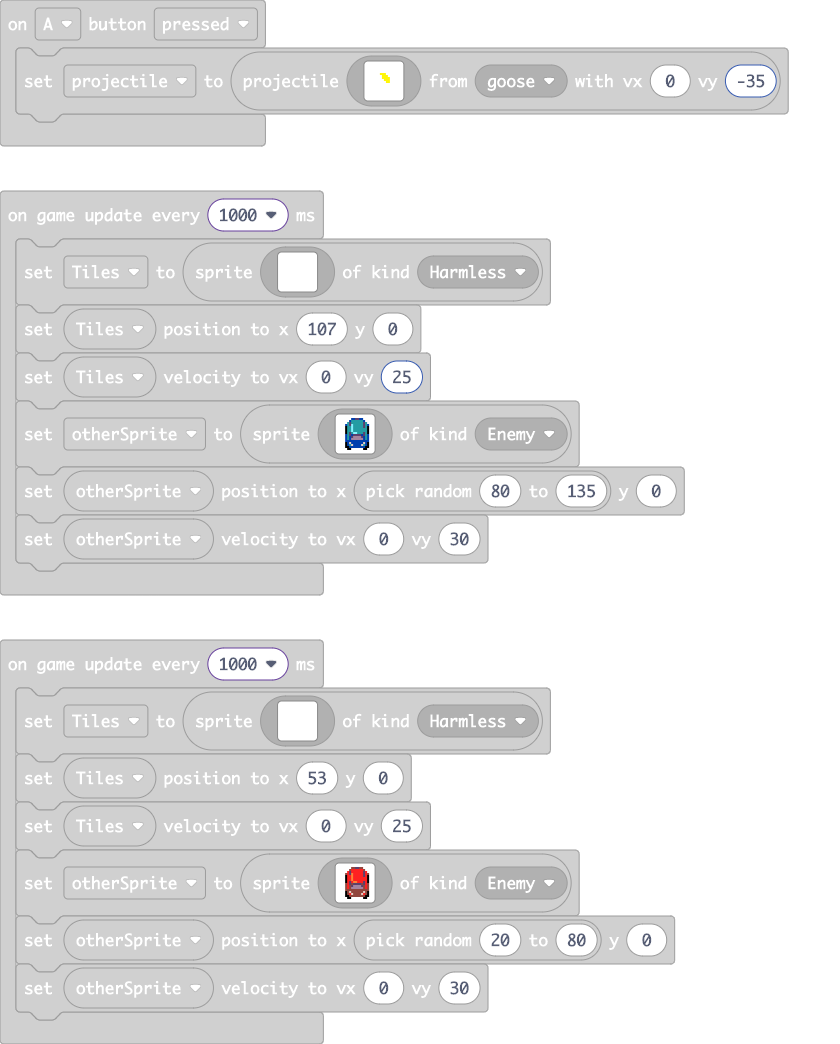
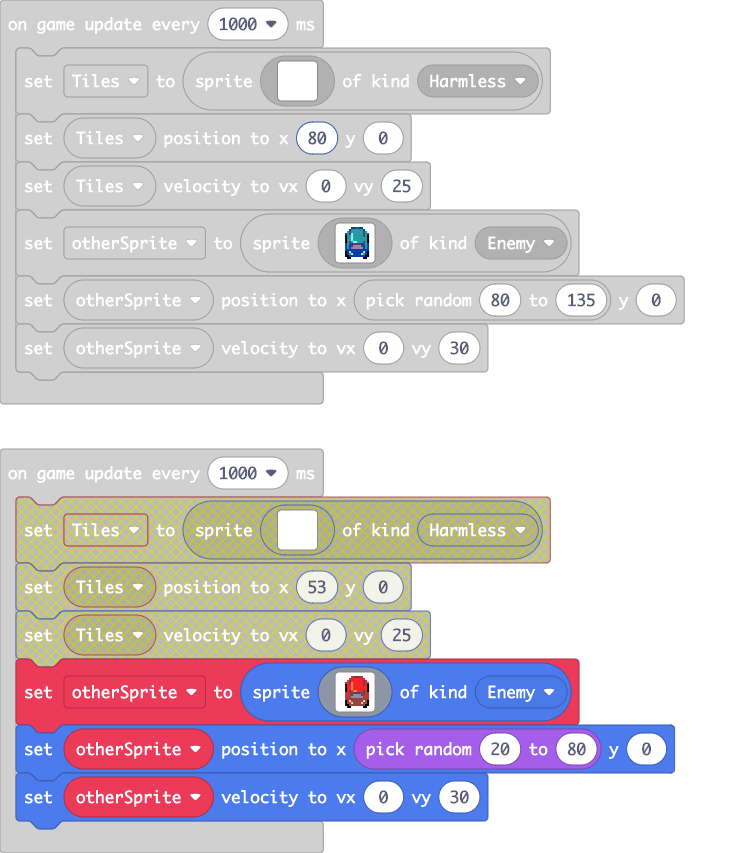
Sudhish - Edit 7

diff --git a/main.ts b/main.ts
@@ -347,7 +347,7 @@ game.onUpdateInterval(1000, function () {
         . . . . 1 1 1 1 1 1 1 1 . . . . 
         . . . . 1 1 1 1 1 1 1 1 . . . . 
         `, SpriteKind.Harmless)
-    Tiles.setPosition(107, 0)
+    Tiles.setPosition(80, 0)
     Tiles.setVelocity(0, 25)
     otherSprite = sprites.create(img`
         . . . . . . 8 8 c c 8 8 . . . . 
@@ -371,26 +371,6 @@ game.onUpdateInterval(1000, function () {
     otherSprite.setVelocity(0, 30)
 })
 game.onUpdateInterval(1000, function () {
-    Tiles = sprites.create(img`
-        . . . . 1 1 1 1 1 1 1 1 . . . . 
-        . . . . 1 1 1 1 1 1 1 1 . . . . 
-        . . . . 1 1 1 1 1 1 1 1 . . . . 
-        . . . . 1 1 1 1 1 1 1 1 . . . . 
-        . . . . 1 1 1 1 1 1 1 1 . . . . 
-        . . . . 1 1 1 1 1 1 1 1 . . . . 
-        . . . . 1 1 1 1 1 1 1 1 . . . . 
-        . . . . 1 1 1 1 1 1 1 1 . . . . 
-        . . . . 1 1 1 1 1 1 1 1 . . . . 
-        . . . . 1 1 1 1 1 1 1 1 . . . . 
-        . . . . 1 1 1 1 1 1 1 1 . . . . 
-        . . . . 1 1 1 1 1 1 1 1 . . . . 
-        . . . . 1 1 1 1 1 1 1 1 . . . . 
-        . . . . 1 1 1 1 1 1 1 1 . . . . 
-        . . . . 1 1 1 1 1 1 1 1 . . . . 
-        . . . . 1 1 1 1 1 1 1 1 . . . . 
-        `, SpriteKind.Harmless)
-    Tiles.setPosition(53, 0)
-    Tiles.setVelocity(0, 25)
     otherSprite = sprites.create(img`
         . . . . . . e e c c e e . . . . 
         . . . . . e 2 2 2 2 2 2 e . . . 
